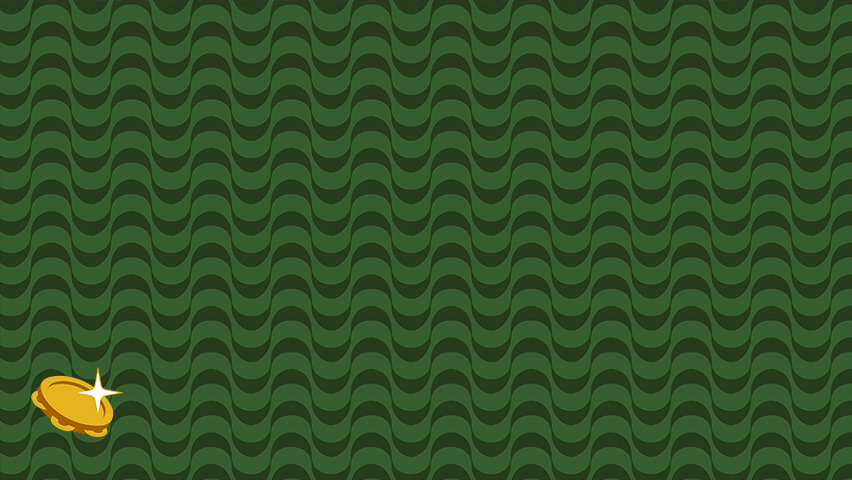
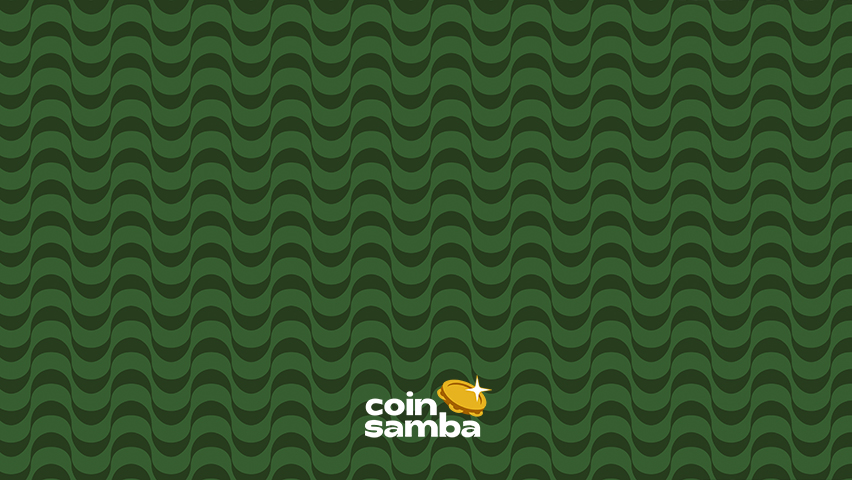
removed bold and improve background

Changed region(s): [[0.4272, 0.7812, 0.5798, 0.9375], [0.0305, 0.7812, 0.1526, 0.9062]]

diff --git a/src/index.ts b/src/index.ts
@@ -40,7 +40,7 @@ const fontFamily = "CoolveticaRg";
 
       context.drawImage(background, 0, 0, width, height);
 
-      context.font = `bold 70pt Coolvetica Rg`;
+      context.font = `70pt Coolvetica Rg`;
       context.fillStyle = "#fff";
 
       const centerX = width / 2;
